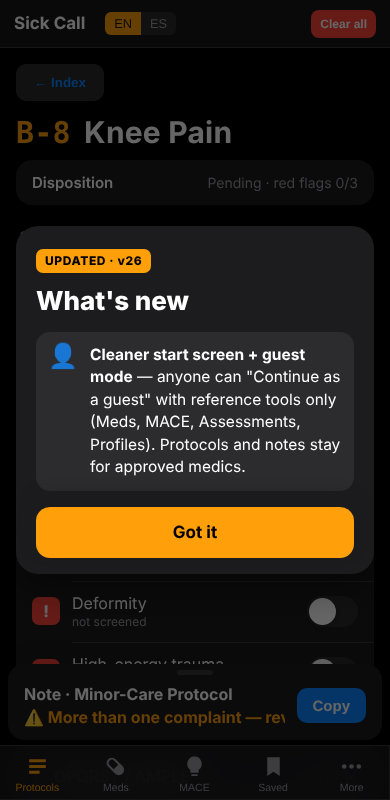
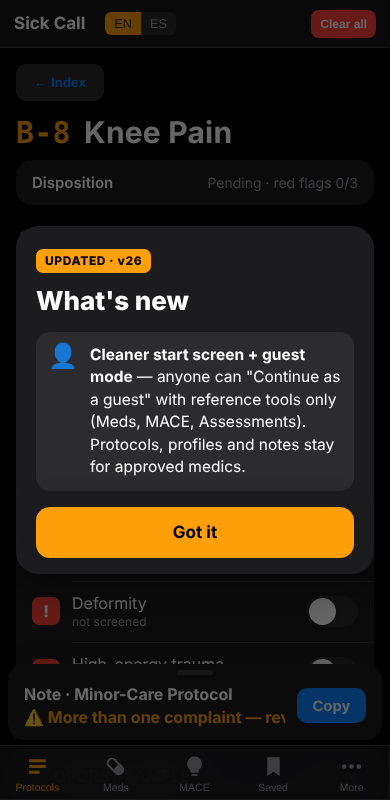
Guest mode: remove Profiles (medics only)
Modo invitado: quitar Perfiles (solo médicos)

Claude-Session: https://claude.ai/code/session_015dVcNB5Wifchtix1QkjYVg

Changed region(s): [[0.3077, 0.5312, 0.8615, 0.5625]]

diff --git a/app.js b/app.js
@@ -1121,9 +1121,9 @@ function fuQs(t,s,fid){
   }
   return out;
 }
-const GUEST_OK=['admeds','mace','more','preguntas','assess','perfiles','access'];
+const GUEST_OK=['admeds','mace','more','preguntas','assess','access'];
 function isGuest(){return document.body.classList.contains('guest');}
-function guestLocked(){return '<div class="guest-lock"><div class="gl-ic">🔒</div><h2>'+L('For approved medics','Para médicos aprobados')+'</h2><p>'+L('Protocols, dispositions, notes and the patient list need medic access. As a guest you can use Meds, MACE, Assessments, Questions and Profiles.','Los protocolos, disposiciones, notas y la lista de pacientes necesitan acceso de médico. Como invitado puedes usar Meds, MACE, Assessments, Preguntas y Perfiles.')+'</p><button class="gl-btn" onclick="accGate(true)">🩺 '+L('Get medic access','Pedir acceso de médico')+'</button><button class="gl-sec" onclick="tabGo(\'admeds\')">💊 '+L('Go to Meds','Ir a Meds')+'</button></div>';}
+function guestLocked(){return '<div class="guest-lock"><div class="gl-ic">🔒</div><h2>'+L('For approved medics','Para médicos aprobados')+'</h2><p>'+L('Protocols, dispositions, profiles, notes and the patient list need medic access. As a guest you can use Meds, MACE, Assessments and Questions.','Los protocolos, disposiciones, perfiles, notas y la lista de pacientes necesitan acceso de médico. Como invitado puedes usar Meds, MACE, Assessments y Preguntas.')+'</p><button class="gl-btn" onclick="accGate(true)">🩺 '+L('Get medic access','Pedir acceso de médico')+'</button><button class="gl-sec" onclick="tabGo(\'admeds\')">💊 '+L('Go to Meds','Ir a Meds')+'</button></div>';}
 function renderMain(){
   const m=document.getElementById('main');
   if(isGuest()&&!GUEST_OK.includes(view)){m.innerHTML=guestLocked();return;}

diff --git a/data/whatsnew.js b/data/whatsnew.js
@@ -4,7 +4,7 @@
    go: optional button target — a tab/view name ('admeds', 'perfiles', 'more') or 'proto:J-3'. */
 const WHATSNEW=[
  {v:'v26',items:[
-   {i:'👤',en:'<b>Cleaner start screen + guest mode</b> — anyone can "Continue as a guest" with reference tools only (Meds, MACE, Assessments, Profiles). Protocols and notes stay for approved medics.',es:'<b>Pantalla de inicio más limpia + modo invitado</b> — cualquiera puede "Continuar como invitado" solo con referencias (Meds, MACE, Assessments, Perfiles). Los protocolos y notas siguen siendo para médicos aprobados.'}]},
+   {i:'👤',en:'<b>Cleaner start screen + guest mode</b> — anyone can "Continue as a guest" with reference tools only (Meds, MACE, Assessments). Protocols, profiles and notes stay for approved medics.',es:'<b>Pantalla de inicio más limpia + modo invitado</b> — cualquiera puede "Continuar como invitado" solo con referencias (Meds, MACE, Assessments). Los protocolos, perfiles y notas siguen siendo para médicos aprobados.'}]},
  {v:'v25',items:[
    {i:'🆕',en:'<b>What\'s new window</b> — after each update you\'ll see this card with the new features.',es:'<b>Ventana de novedades</b> — después de cada actualización verás esta tarjeta con lo nuevo.'}]},
  {v:'v24',items:[

diff --git a/access.js b/access.js
@@ -63,7 +63,7 @@ async function accGate(force){
    +'<div class="mg-em">🚨 '+L('Emergency? Tell a medic now or call 911.','¿Emergencia? Avísale a un médico ya o llama al 911.')+'</div>');
 }
 function acLang(l){try{setLang(l);}catch(e){}accGate(true);}
-/* Guest mode: reference tools only (Meds, MACE, Assessments, Questions, Profiles). No protocols, dispositions, notes or patient queue.
+/* Guest mode: reference tools only (Meds, MACE, Assessments, Questions). No protocols, dispositions, profiles, notes or patient queue.
    Modo invitado: solo referencias. Sin protocolos, disposiciones, notas ni lista de pacientes. */
 function acIsGuest(){try{return localStorage.getItem('sc_guest')==='1';}catch(e){return false;}}
 function acGuest(){try{localStorage.setItem('sc_guest','1');}catch(e){}acClose();acGuestApply();}

diff --git a/CHANGELOG.md b/CHANGELOG.md
@@ -4,8 +4,8 @@ Bilingual summary of everything added or fixed, newest first. PR numbers refer t
 Resumen bilingüe de todo lo agregado o corregido, lo más nuevo primero. Los números de PR son de este repositorio.
 
 ## Unreleased / Próximo
-- **Cleaner start screen + guest mode:** the access screen is simpler (less small text, EN/ES switch). New "Continue as a guest": reference tools only — Meds, MACE, Assessments, Questions and Profiles. Protocols, dispositions, notes and the patient list stay locked for approved medics. A 👤 Guest button at the top returns to the access screen.
-  **Pantalla de inicio más limpia + modo invitado:** la pantalla de acceso es más sencilla (menos letra chica, botón EN/ES). Nuevo "Continuar como invitado": solo referencias — Meds, MACE, Assessments, Preguntas y Perfiles. Protocolos, disposiciones, notas y la lista de pacientes siguen bloqueados para médicos aprobados. Un botón 👤 Invitado arriba regresa a la pantalla de acceso.
+- **Cleaner start screen + guest mode:** the access screen is simpler (less small text, EN/ES switch). New "Continue as a guest": reference tools only — Meds, MACE, Assessments and Questions. Protocols, dispositions, profiles, notes and the patient list stay locked for approved medics. A 👤 Guest button at the top returns to the access screen.
+  **Pantalla de inicio más limpia + modo invitado:** la pantalla de acceso es más sencilla (menos letra chica, botón EN/ES). Nuevo "Continuar como invitado": solo referencias — Meds, MACE, Assessments y Preguntas. Protocolos, disposiciones, perfiles, notas y la lista de pacientes siguen bloqueados para médicos aprobados. Un botón 👤 Invitado arriba regresa a la pantalla de acceso.
 - **"What's new" popup:** after an update, medics see a short card with the new features once (with a button to jump to them). More → What's new shows it again.
   **Ventana "Novedades":** después de una actualización, los médicos ven una vez una tarjeta corta con lo nuevo (con botón para ir directo). Más → Novedades la vuelve a mostrar.
 - **Shaving profile (PFB):** Soldier questionnaire has "Shaving profile / razor bumps" (Skin) with follow-ups: face/neck swelling, spreading redness or fever (red), pus or painful lumps and mask/protective-gear seal problems (needs a look), renewal, dark spots/scars; otherwise triaged as routine. In the medic app, ADTMC J-3 and More → Profiles show a PFB builder: pick Mild / Moderate / Severe → phase and duration (30 / 60 / up to 90 days), shaving instructions, treatment plan and suggested e-Profile wording (copy). The note gets a recommendation line for the provider/AEM. Based on the clinic PFB guidance (TB MED 287, Army Directive 2025-13).
